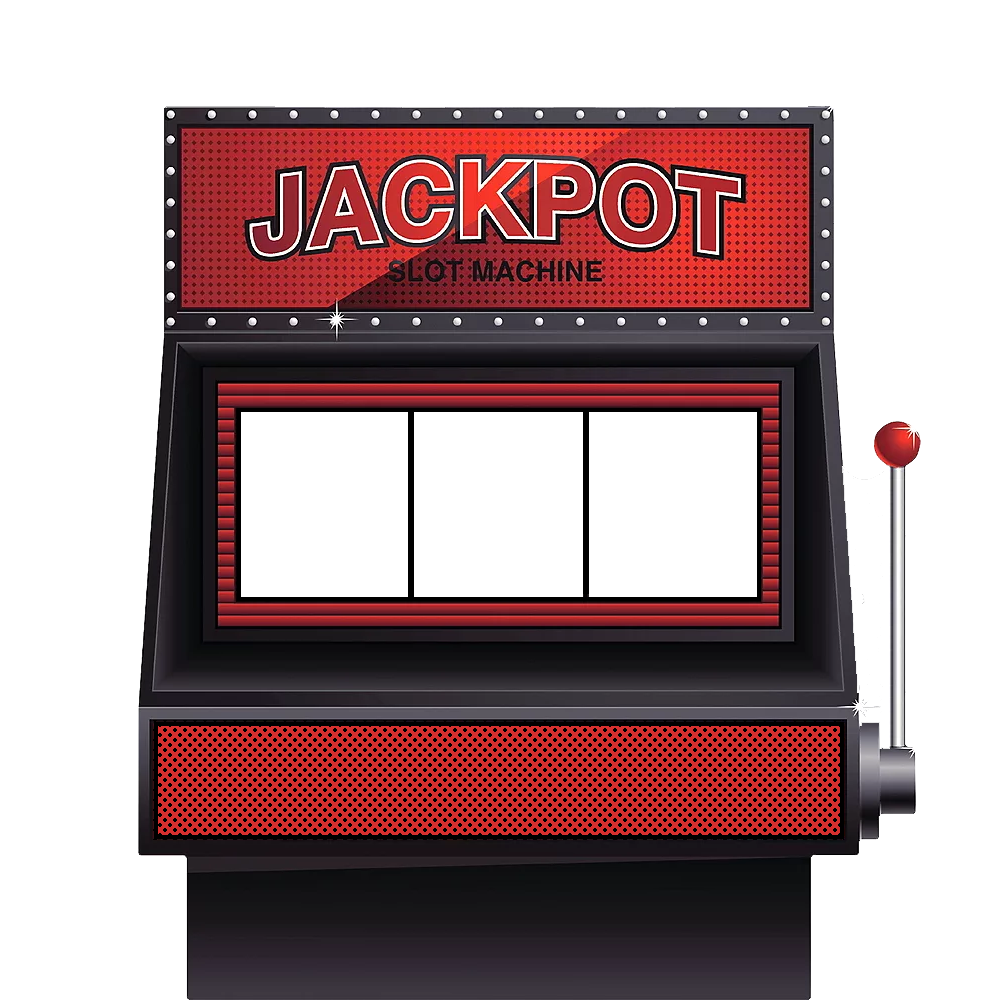
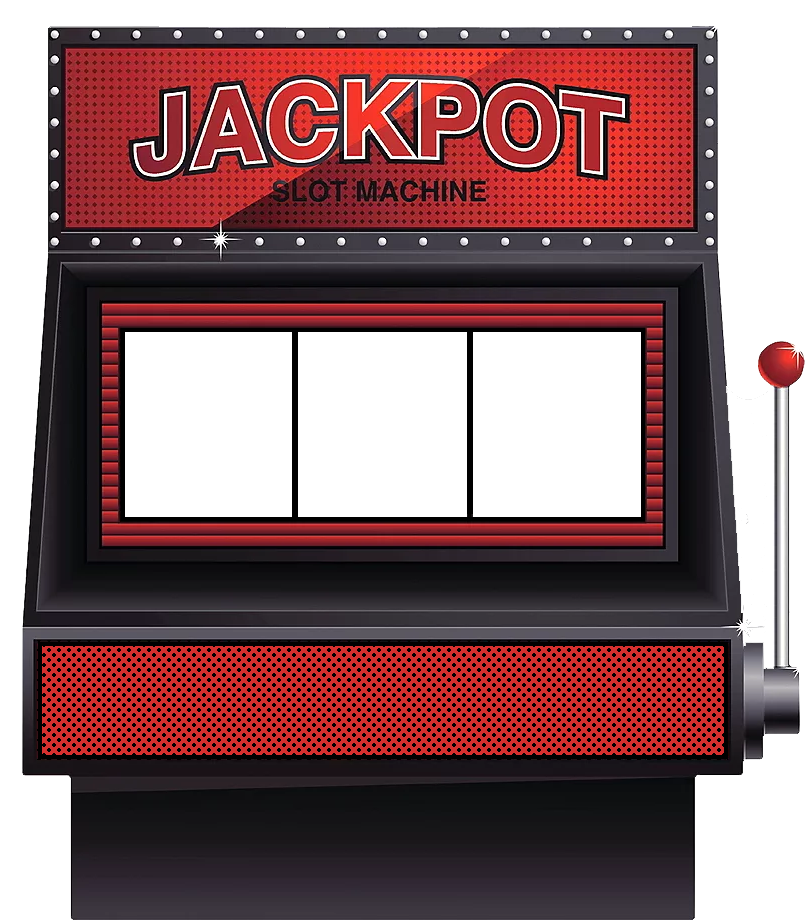
html and css adjustments and modified images

diff --git a/index.html b/index.html
@@ -13,12 +13,10 @@
 <body>
     <div class="game-header">
         <h2>ABORTION<br>LOTTERY</h2>
-        <h3>They told you it was a right, huh?</h3>
+        <h3>Because women's rights are to be gambled on!</h3>
+        <h4>Run the slot machine to see where life got you started!</h4>
         <div>
-            <h4>Run the slot machine to see where life got you started!</h4>
-        </div>
-        <div>
-            <h5>Depending on your country, your personal wealth, and the number of weeks of pregnancy, the game might
+            <h5>Depending on your country, personal wealth, and the number of weeks of pregnancy, the game might
                 get easier... or harder.</h5>
         </div>
     </div>
@@ -41,10 +39,11 @@
             </div>
             <div id="won" class="game-finished is-hidden">
                 <h2>YOU WON!</h2><br>
-                Congratulations!<br>You managed to access basic human rights!
+                You managed to access basic human rights,<br>congratulations!
             </div>
             <div id="lost" class="game-finished is-hidden">
-                <h2>YOU LOST!</h2><br>You were denied basic human rights!</div>
+                <h2>YOU LOST!</h2><br>You were denied basic human rights.
+            </div>
         </div>
         <div id="game-board" class="is-hidden">
             <img id="player" src="./img/perso-normal-face.png" alt="player-normal-face">
@@ -52,7 +51,7 @@
 
     </div>
     <footer>
-        <a href="https://github.com/myracodes">GitHub</a>
+        <a href="https://github.com/myracodes">Find me on GitHub</a>
     </footer>
 </body>
 

diff --git a/style.css b/style.css
@@ -14,7 +14,7 @@ bâtiments : planned parenthood, hospital, school, AN,
 @import url('https://fonts.googleapis.com/css2?family=Poppins&display=swap');
 /* font-family: 'Poppins', sans-serif; */
 
-/* malus colors: #96322d */
+/* malus colors: rgb(255, 255, 255) */
 /* bonus colors: #126831 */
 
 html,
@@ -63,7 +63,7 @@ h5 {
     margin: 0;
     padding: 0 0 15px 0;
     text-align: center;
-    width: 400px;
+    width: 600px;
 }
 
 .game-header {
@@ -87,7 +87,7 @@ h5 {
 
 #slot-machine-image {
     margin-top: 0px;
-    width: 500px;
+    width: 400px;
     position: static;
     z-index: 10;
 }
@@ -144,10 +144,11 @@ h5 {
     flex-direction: row;
     align-items: center;
     justify-content: space-evenly;
-    width: 270px;
-    height: 100px;
+    width: 280px;
+    height: 90px;
     font-size: 12pt;
-    bottom: 300px;
+    bottom: 292px;
+    left: -10px;
 }
 
 #countries-block,
@@ -224,7 +225,7 @@ h5 {
 a {
     text-decoration: none;
     color: black;
-    font-size: 1.2em;
+    font-size: 1em;
     font-family: 'Poppins', sans-serif;
     background-color: rgba(255, 255, 255, 0.801);
     padding: 2px;
@@ -233,7 +234,6 @@ a {
 a:hover {
     color: grey;
     font-family: 'Poppins', sans-serif;
-    font-size: 1.3em;
     background-color: rgba(255, 255, 255, 0.801);
     text-decoration: underline;
 
